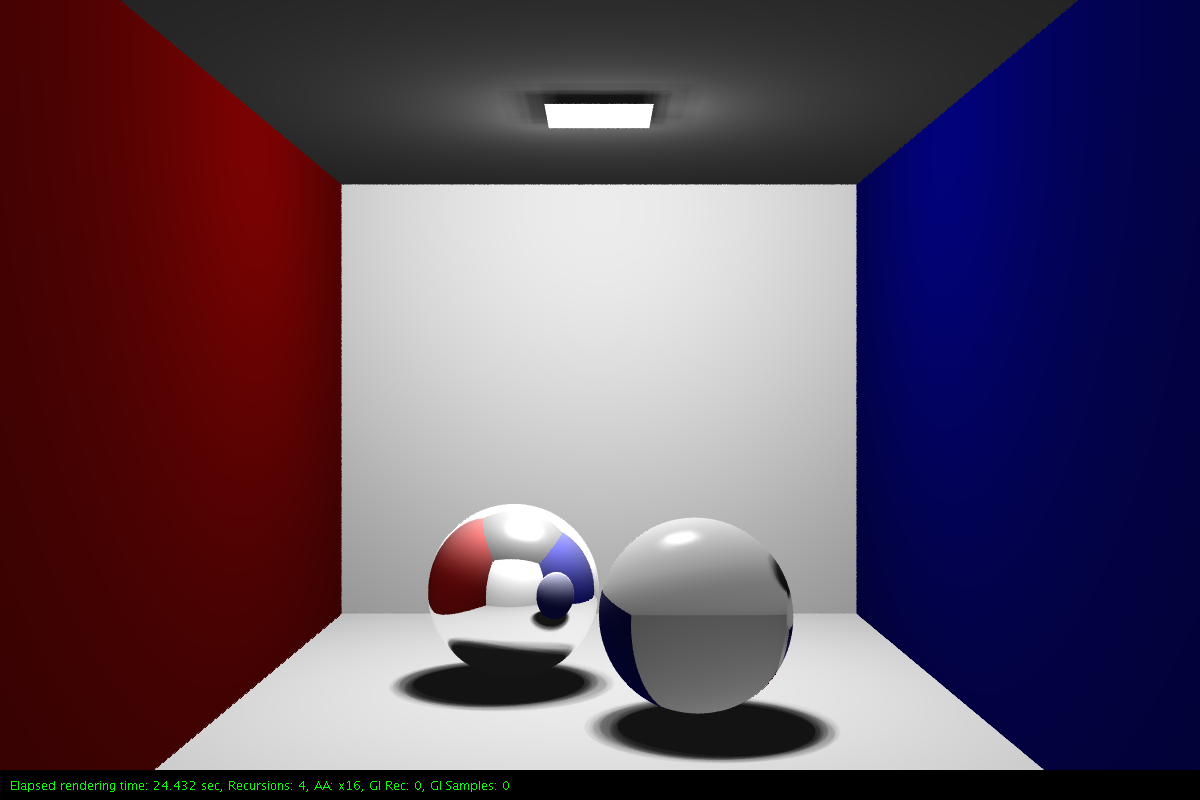
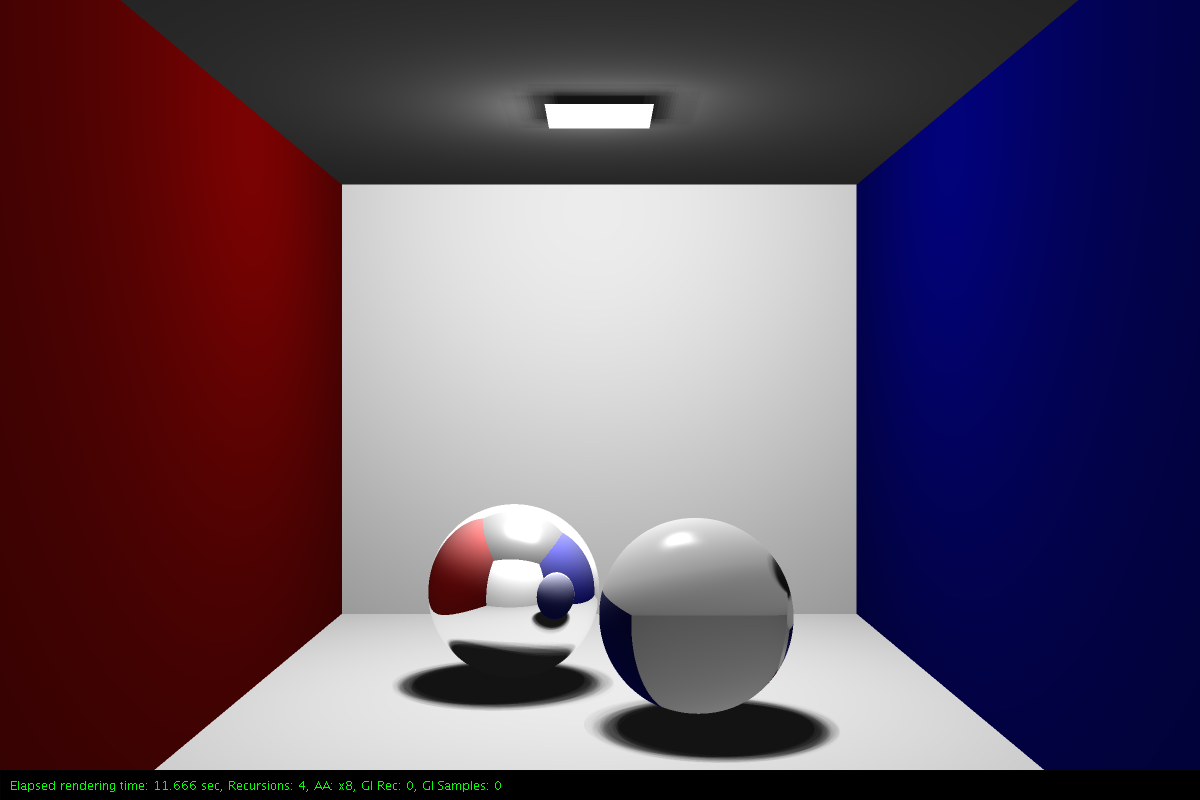
Remove artifacts on AA

diff --git a/VCG_Raytracer/src/raytracer/Raytracer.java b/VCG_Raytracer/src/raytracer/Raytracer.java
@@ -64,8 +64,6 @@ public class Raytracer {
     private Vec3[][] mAliasedColorMap;
     private Vec3[][] mEdgesMap;
 
-    private Ray[][] mPrimaryRayMap;
-
     private MultiThreader mRayMultiThreader;
 
     private int mMaxRecursions;
@@ -73,7 +71,7 @@ public class Raytracer {
     private int mGiSamples;
 
     private float mAntiAliasingCounter;
-    private int mAntiAliasingSamples;
+    private float mAntiAliasingSamples;
 
     private int mBlockSize;
     private int mNumberOfThreads;
@@ -102,17 +100,16 @@ public class Raytracer {
         mBufferedImage = renderWindow.getBufferedImage();
         mAliasedColorMap = new Vec3[mBufferedImage.getWidth()][mBufferedImage.getHeight()];
         mEdgesMap = new Vec3[mBufferedImage.getWidth()][mBufferedImage.getHeight()];
-        mPrimaryRayMap = new Ray[mBufferedImage.getHeight()][mBufferedImage.getWidth()];
         mBackgroundColor = backColor;
         mAmbientLight = ambientLight;
         mScene = scene;
         mRenderWindow = renderWindow;
         mShapeList = scene.getShapeList();
         mLightList = scene.getLightList();
-        mAntiAliasingCounter = 1f / antiAliasingSamples;
+        mAntiAliasingSamples = antiAliasingSamples;
+        mAntiAliasingCounter = 1f / (mAntiAliasingSamples / 2f);
         mDebug = debugOn;
         tStart = System.currentTimeMillis();
-        mAntiAliasingSamples = antiAliasingSamples;
         mBlockSize = blockSize;
         mNumberOfThreads = numberOfThreads;
 
@@ -146,7 +143,7 @@ public class Raytracer {
     }
 
     public void exportRendering(){
-        mRenderWindow.exportRendering(String.valueOf(stopTime(tStart)), mMaxRecursions, mAntiAliasingSamples, mDebug, mGiLevel, mGiSamples);
+        mRenderWindow.exportRendering(String.valueOf(stopTime(tStart)), mMaxRecursions, (int )mAntiAliasingSamples * 2, mDebug, mGiLevel, mGiSamples);
     }
 
     private static double stopTime(long tStart){
@@ -179,7 +176,8 @@ public class Raytracer {
                     // Fill already Edges Map black
                     mEdgesMap[x][y] = new Vec3(0, 0, 0);
 
-                    this.getRenderWindow().setPixel(this.getBufferedImage(), new RgbColor(mAliasedColorMap[x][y]), new Vec2(x, y));
+                    // DEBUG ONLY
+                    //this.getRenderWindow().setPixel(this.getBufferedImage(), new RgbColor(mAliasedColorMap[x][y]), new Vec2(x, y));
                 }
                 else {
                     if(mEdgesMap[x][y].equals(RgbColor.WHITE.colors)){
@@ -207,7 +205,8 @@ public class Raytracer {
                         mEdgesMap[x + 1][y - 1] = RgbColor.WHITE.colors;
                         mEdgesMap[x - 1][y + 1] = RgbColor.WHITE.colors;
                     }
-                    this.getRenderWindow().setPixel(this.getBufferedImage(), new RgbColor(mEdgesMap[x][y]), new Vec2(x, y));
+                    // DEBUG ONLY
+                    //this.getRenderWindow().setPixel(this.getBufferedImage(), new RgbColor(mEdgesMap[x][y]), new Vec2(x, y));
                 }
             }
             Log.print(this, "Edge Map finished!");
@@ -217,36 +216,22 @@ public class Raytracer {
     public RgbColor calculateAntiAliasedColor(int y, int x) {
 
         Vec2 screenPosition;
-        RgbColor antiAlisedColor = RgbColor.BLACK;
+        Vec3 antiAlisedColor = new Vec3();
 
-        Random antiAliasingRandom = new Random();
+        // Don't use random, because it produces artifacts!
 
-        // Start super sampling
-        for(float i = 0; i < mAntiAliasingSamples; i ++){
-                float m = antiAliasingRandom.nextFloat();
-                float n = antiAliasingRandom.nextFloat();
+        for(float n = 0; n < 1; n += mAntiAliasingCounter){
+            for(float m = 0; m < 1; m += mAntiAliasingCounter){
+                float xc = (x + m);
+                float yc = (y + n);
 
-                screenPosition = new Vec2(x + m, y + n);
-                antiAlisedColor = antiAlisedColor.add(this.sendPrimaryRay(screenPosition).multScalar(mAntiAliasingCounter));
+                screenPosition = new Vec2(xc, yc);
+                antiAlisedColor = antiAlisedColor.add(this.sendPrimaryRay(screenPosition).colors.multScalar(1f / (mAntiAliasingSamples)));
+            }
         }
 
-        return antiAlisedColor;
+        return new RgbColor(antiAlisedColor);
     }
-
-//    private void createAliasedColorMap(){
-//        Log.print(this, "Create Primary Color Map");
-//        for(int x = 0; x < mBufferedImage.getWidth(); x++){
-//            for(int y = 0; y < mBufferedImage.getHeight(); y++) {
-//                mPrimaryRayMap[y][x] = createPrimaryRay(x,y);
-//                mEdgesMap[x][y] = new Vec3();
-//
-//                mAliasedColorMap[x][y] = this.sendPrimaryRay(new Vec2(x, y)).colors;
-//
-//                this.getRenderWindow().setPixel(this.getBufferedImage(), new RgbColor(mAliasedColorMap[x][y]), new Vec2(x, y));
-//            }
-//        }
-//        Log.print(this, "Primary Color Map finished!");
-//    }
 
     private Ray createPrimaryRay(float x, float y){
         Vec3 startPoint = mScene.getCamPos();
@@ -254,31 +239,14 @@ public class Raytracer {
         return new Ray(startPoint, destinationDir, 1f);
     }
 
-    private void createEdgesMap() {
-        Log.print(this, "Create AntiAliased Map");
-        for(int x = 1; x < mBufferedImage.getWidth() - 1; x++){
-            for(int y = 1; y < mBufferedImage.getHeight() - 1; y++) {
-                if(this.hasToBeAntiAliased(x,y)){
-                    mEdgesMap[x][y] = RgbColor.WHITE.colors;
-                    mEdgesMap[x+1][y] = RgbColor.WHITE.colors;
-                    mEdgesMap[x-1][y] = RgbColor.WHITE.colors;
-                    mEdgesMap[x][y+1] = RgbColor.WHITE.colors;
-                    mEdgesMap[x][y-1] = RgbColor.WHITE.colors;
-                }
-                this.getRenderWindow().setPixel(this.getBufferedImage(), new RgbColor(mEdgesMap[x][y]), new Vec2(x, y));
-            }
-        }
-        Log.print(this, "AntiAliased Map finished!");
-    }
-
     private boolean hasToBeAntiAliased(int x, int y){
 
         float value = mAliasedColorMap[x][y].length();
 
-        if ((value - mAliasedColorMap[x+1][y].length()) > AA_THRESHOLD ||
-            (value - mAliasedColorMap[x-1][y].length()) > AA_THRESHOLD ||
-            (value - mAliasedColorMap[x][y+1].length()) > AA_THRESHOLD ||
-            (value - mAliasedColorMap[x][y-1].length()) > AA_THRESHOLD) {
+        if ((value - mAliasedColorMap[x+1][y+1].length()) > AA_THRESHOLD ||
+            (value - mAliasedColorMap[x-1][y-1].length()) > AA_THRESHOLD ||
+            (value - mAliasedColorMap[x-1][y+1].length()) > AA_THRESHOLD ||
+            (value - mAliasedColorMap[x+1][y-1].length()) > AA_THRESHOLD) {
             return true;
         }
         return false;

diff --git a/VCG_Raytracer/src/Main.java b/VCG_Raytracer/src/Main.java
@@ -61,7 +61,7 @@ public class Main {
     /** RAYTRACER **/
 
     static int RECURSIONS = 4;
-    static int ANTI_ALIASING = Raytracer.ANTI_ALIASING_INSANE;
+    static int ANTI_ALIASING = Raytracer.ANTI_ALIASING_MEDIUM;
     static boolean USE_SOFT_SHADOWS = true;
 
     /** LIGHT **/
